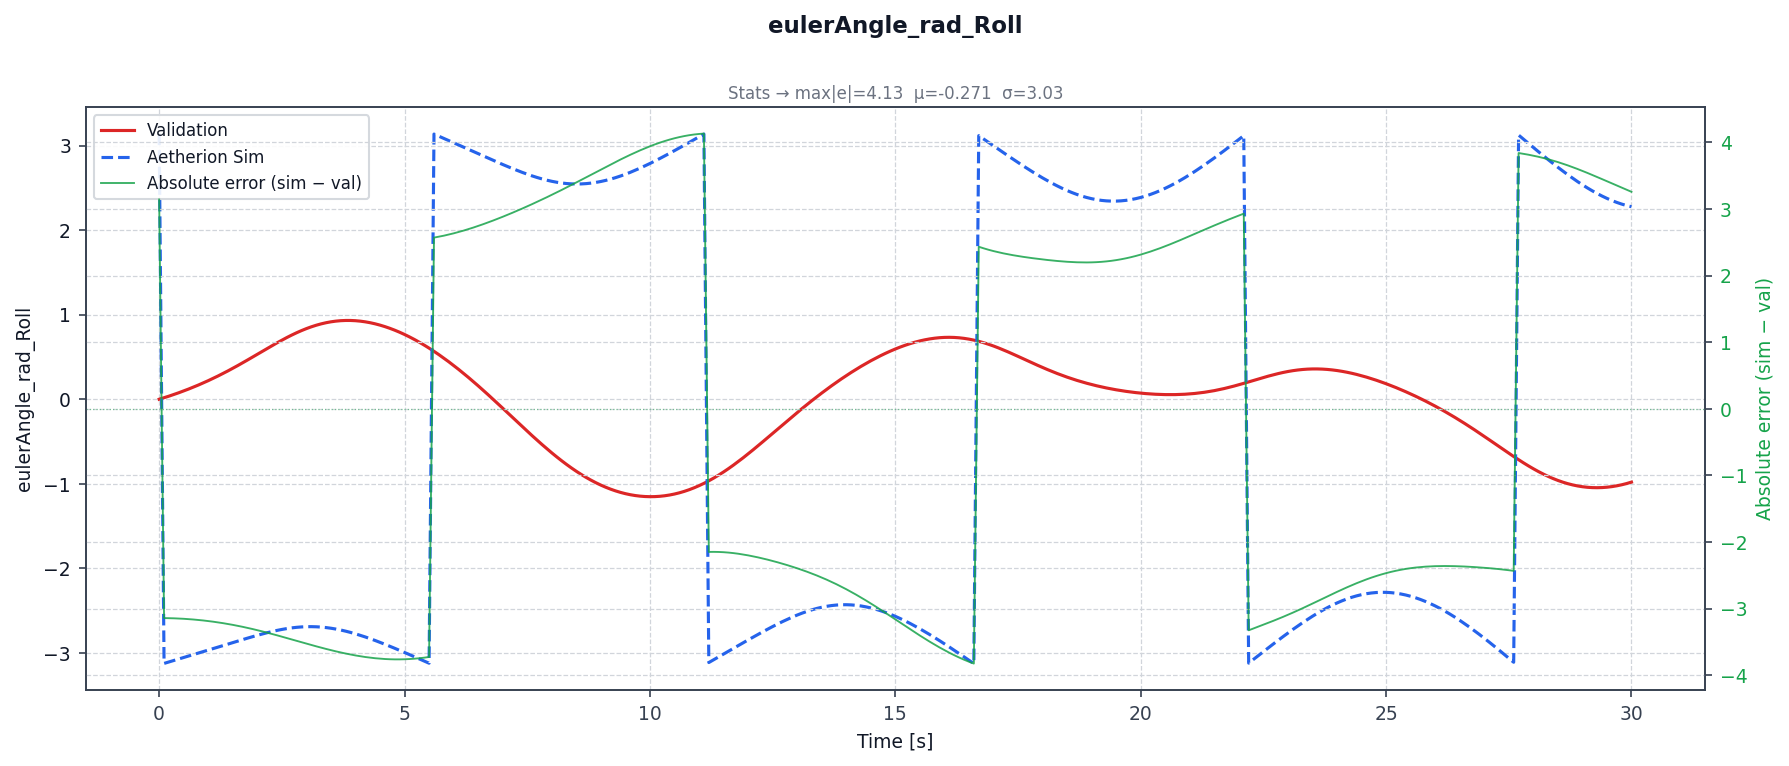
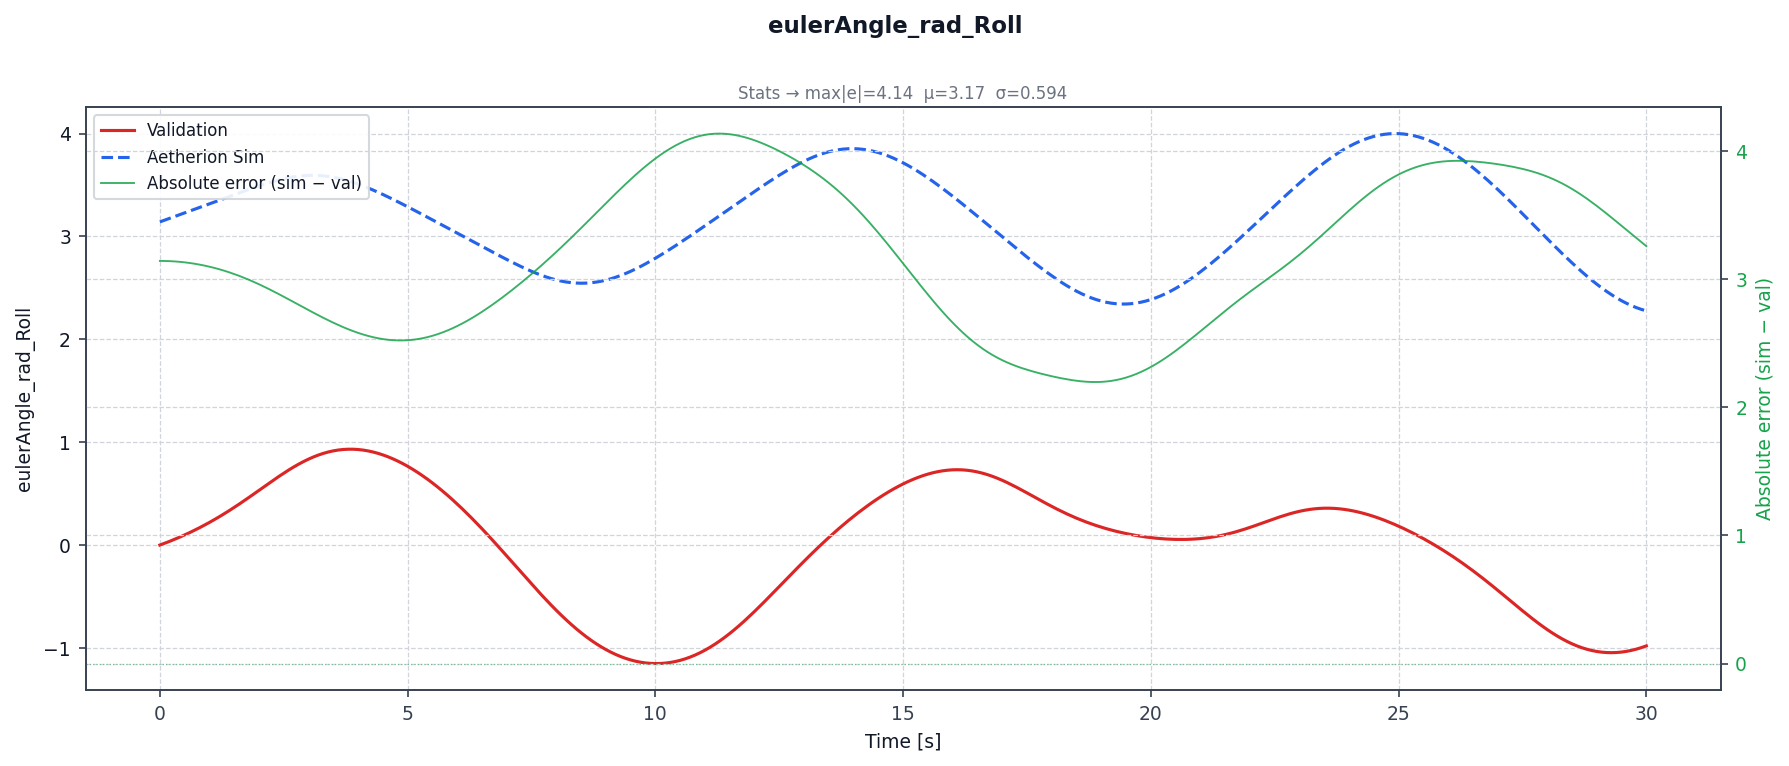
fix(plots): unwrap angle columns before plotting to remove 2pi jumps
Applies np.unwrap() to any column whose name contains '_rad' or 'angle'
(but not 'rate') immediately after data alignment, so Euler angle and
longitude/latitude plots show continuous smooth curves instead of
unphysical discontinuous jumps at ±pi crossings.

Regenerated all Atmos_02 plots with the fix applied.

diff --git a/scripts/compare_sim_validation.py b/scripts/compare_sim_validation.py
@@ -352,6 +352,16 @@ def main():
     print(f"\nComparing {len(columns)} columns over {len(time)} time steps.")
     print(f"Output → {os.path.abspath(args.output)}\n")
 
+    # ── Unwrap angle columns (removes unphysical 2π jumps from atan2) ────────
+    def _is_angle_col(name: str) -> bool:
+        n = name.lower()
+        return ("_rad" in n or "angle" in n) and "rate" not in n
+
+    for col in columns:
+        if _is_angle_col(col):
+            df_sim[col] = np.unwrap(df_sim[col].values.astype(float))
+            df_val[col] = np.unwrap(df_val[col].values.astype(float))
+
     # ── Individual plots ──────────────────────────────────────────────────────
     for col in columns:
         s = df_sim[col].values.astype(float)
